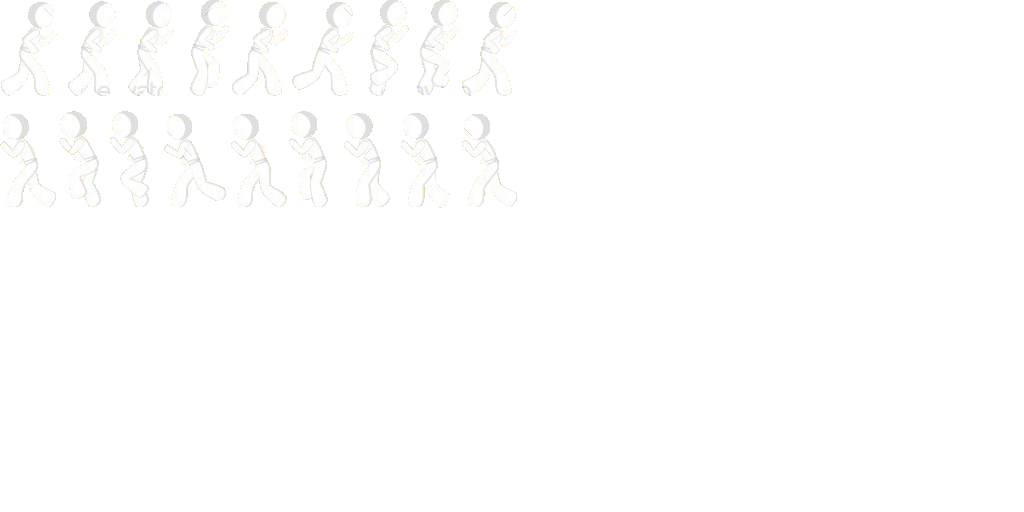
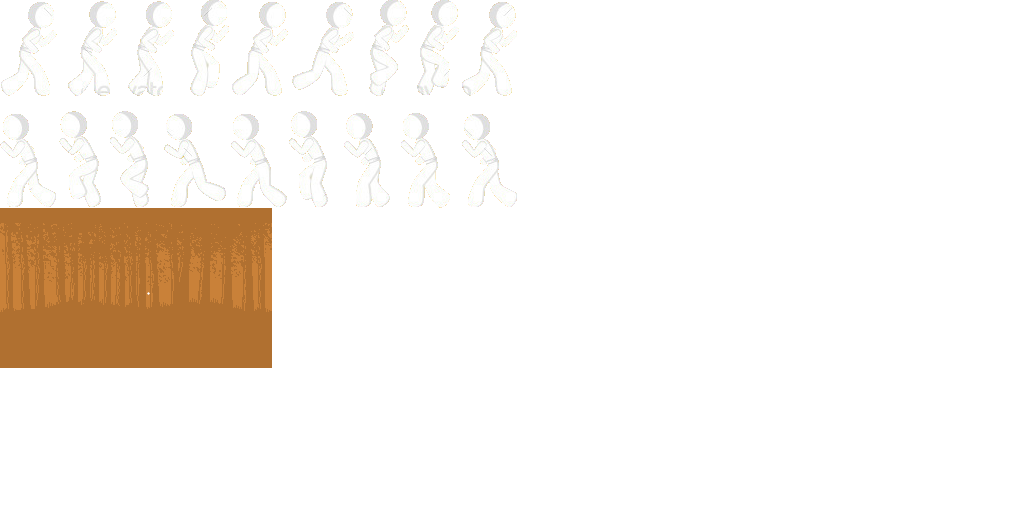
editted resource image

Changed region(s): [[0.0, 0.4062, 0.2812, 0.7188]]

diff --git a/Sprite.cpp b/Sprite.cpp
@@ -6,13 +6,13 @@ Sprite::Sprite()
 {
 	this->texture = NULL;
 	this->sprite = NULL;
-	//this->spriteRect = { 0,0,0,0 };
+	this->backgroundRect = { 0,208,271,367 };
 	setRenderPosition();
 	this->hr = D3DXCreateSprite(GraphicHandler::getInstance()->getD3dDevice(), &sprite);
-	this->hr = D3DXCreateTextureFromFile(GraphicHandler::getInstance()->getD3dDevice(), "dummy_walking.png", &texture);
+	this->hr = D3DXCreateTextureFromFile(GraphicHandler::getInstance()->getD3dDevice(), "resources.png", &texture);
 
 	drawPosition.x = 32;
-	drawPosition.y = 150;
+	drawPosition.y = 200;
 	drawPosition.z = 0;
 }
 
@@ -49,12 +49,16 @@ void Sprite::drawSprite()
 	//	Clear and begin scene
 
 	sprite->Begin(D3DXSPRITE_ALPHABLEND);
-	
+
+	//background render
+	sprite->Draw(texture, &backgroundRect, NULL, NULL, D3DCOLOR_XRGB(255, 255, 255));
+
 	//	Sprite rendering. Study the documentation.
 	//sprite->Draw(texture, NULL, NULL, NULL, D3DCOLOR_XRGB(255, 255, 255));
-	//sprite->Draw(texture, &spriteRect, NULL, NULL, D3DCOLOR_XRGB(255, 255, 255));
+	
 	sprite->Draw(texture, &spriteRect, NULL, &drawPosition, D3DCOLOR_XRGB(255, 255, 255));
 	
+
 	//	End sprite drawing
 	sprite->End();
 

diff --git a/Sprite.h b/Sprite.h
@@ -9,7 +9,7 @@ private:
 	LPD3DXSPRITE sprite;
 	HRESULT hr;
 
-	RECT spriteRect;
+	RECT spriteRect,backgroundRect;
 
 public:
 	Sprite();
